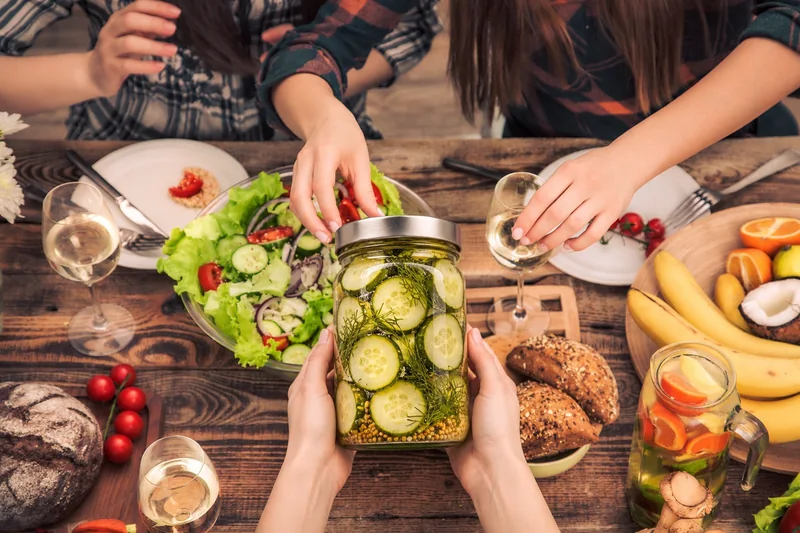
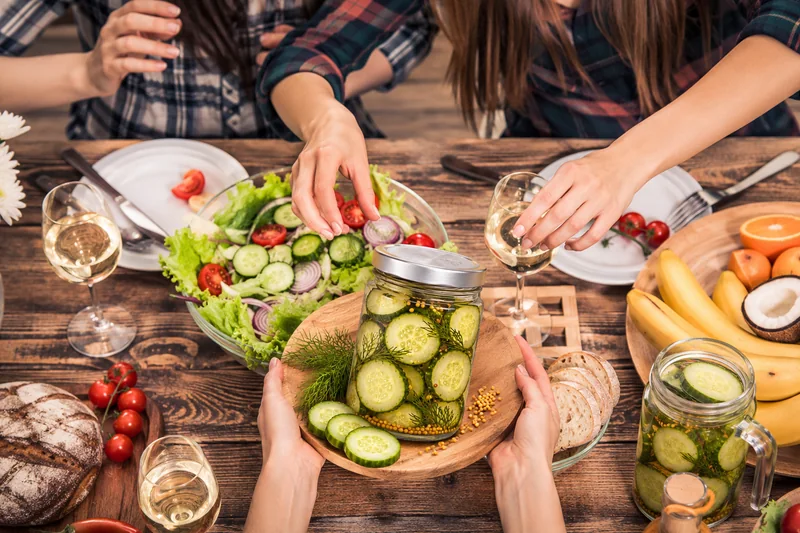
Use DILLORA brand photos everywhere, add deck scroll effect
- Replace all stock photography with supplied DILLORA brand shots
  (no watermarked previews, no Freepik dependency, fetch script removed)
- Scenario deck: cards stack behind, next card peeks, photo zoom, text
  reveal, 01/07 counter with progress bar
- vercel.json SPA rewrites already in place

Claude-Session: https://claude.ai/code/session_01NjC3QDjSEZmovZFgLHoog3

diff --git a/src/data/images.js b/src/data/images.js
@@ -1,70 +1,26 @@
 /*
- * Real photography manifest.
- * - Product: the DILLORA jar photo (public/images/jars, baked per flavor).
- * - Lifestyle / ingredient photos: Freepik free-license stock (attribution
- *   required, see footer credit + docs/IMAGE_CREDITS.md).
- *
- * Stock photos load ONLY from licensed, unwatermarked originals in
- * /public/images/licensed/<key>.jpg. Watermarked previews are never used:
- * until a licensed file is present, <Photo> shows the DILLORA jar instead.
+ * Photography manifest — every photo is a DILLORA brand shot supplied by the client.
+ * - Product cutout: public/images/jars (one per flavor, brine tone baked in).
+ * - Lifestyle / still-life: public/images/scenes/<key>.webp (+ -sm.webp, 800px).
  */
+
 /** Public-folder path that works at any base URL (site root or a sub-path). */
-export const asset = (p) => `${import.meta.env?.BASE_URL ?? "/"}${p.replace(/^\//, '')}`;
+export const asset = (p) => `${import.meta.env?.BASE_URL ?? '/'}${p.replace(/^\//, '')}`;
+
+const shot = (key) => ({
+  local: asset(`/images/scenes/${key}.webp`),
+  small: asset(`/images/scenes/${key}-sm.webp`),
+  remote: null,
+});
 
 export const STOCK = {
-  board: {
-    local: asset('/images/licensed/board.jpg'),
-    remote: null, // licensed original (Freepik ID 5429976); previews are watermarked, never used
-    id: 5429976,
-  },
-  // DILLORA brand shot (supplied)
-  burger: {
-    local: asset('/images/scenes/burger.webp'),
-    small: asset('/images/scenes/burger-sm.webp'),
-    remote: null,
-  },
-  // DILLORA brand shot (supplied)
-  picnic: {
-    local: asset('/images/scenes/picnic.webp'),
-    small: asset('/images/scenes/picnic-sm.webp'),
-    remote: null,
-  },
-  fridge: {
-    local: asset('/images/licensed/fridge.jpg'),
-    remote: null, // licensed original (Freepik ID 15365830); previews are watermarked, never used
-    id: 15365830,
-  },
-  tacos: {
-    local: asset('/images/licensed/tacos.jpg'),
-    remote: null, // licensed original (Freepik ID 10685667); previews are watermarked, never used
-    id: 10685667,
-  },
-  // DILLORA brand shot (supplied) — shipped with the project, no download needed
-  brunch: {
-    local: asset('/images/scenes/brunch.webp'),
-    small: asset('/images/scenes/brunch-sm.webp'),
-    remote: null,
-  },
-  slices: {
-    local: asset('/images/licensed/slices.jpg'),
-    remote: null, // licensed original (Freepik ID 7167908); previews are watermarked, never used
-    id: 7167908,
-  },
-  ingredients: {
-    local: asset('/images/licensed/ingredients.jpg'),
-    remote: null, // licensed original (Freepik ID 10685669); previews are watermarked, never used
-    id: 10685669,
-  },
-  jarBoard: {
-    local: asset('/images/licensed/jarBoard.jpg'),
-    remote: null, // licensed original (Freepik ID 10685680); previews are watermarked, never used
-    id: 10685680,
-  },
-  jarHand: {
-    local: asset('/images/licensed/jarHand.jpg'),
-    remote: null, // licensed original (Freepik ID 17186892); previews are watermarked, never used
-    id: 17186892,
-  },
+  board: shot('board'), // screw-lid jar, cucumbers, dill, garlic
+  burger: shot('burger'), // friends eating pickles on a picnic blanket
+  picnic: shot('picnic'), // sunny park picnic with jars
+  fridge: shot('fridge'), // clip jar + plate of slices with a fork
+  tacos: shot('tacos'), // clip jar of whole gherkins with chili
+  brunch: shot('brunch'), // dinner table, jar passed on a board
+  jarBoard: shot('jarboard'), // clip jar of slices, garlic, chili on a board
 };
 
 export const jarImage = (slug, size = '') => asset(`images/jars/${slug}${size ? `-${size}` : ''}.webp`);

diff --git a/src/data/content.js b/src/data/content.js
@@ -53,7 +53,7 @@ export const SCENARIOS = [
     title: 'Snack board o’clock',
     caption: 'When the cheese is out and the board needs something sharp',
     image: STOCK.board,
-    alt: 'A jar of pickles with chili, dill, garlic and spices on a white wooden table',
+    alt: 'A DILLORA jar of sliced cucumber pickles with fresh cucumbers, dill, garlic and mustard seeds',
   },
   {
     id: 'burger',
@@ -74,35 +74,28 @@ export const SCENARIOS = [
     title: 'Midnight fridge raid',
     caption: 'When it’s late, the kitchen’s quiet and the jar is calling',
     image: STOCK.fridge,
-    alt: 'A hand pulling a pickle from an open jar',
+    alt: 'An open DILLORA clip jar of pickles beside a plate of pickle slices and a fork',
   },
   {
     id: 'tacos',
     title: 'Taco Tuesday',
     caption: 'When the salsa needs crunch and a little extra heat',
     image: STOCK.tacos,
-    alt: 'Pickles with chili and garlic in a glass jar',
+    alt: 'A clip jar of whole pickles with chili, garlic and bay leaf',
   },
   {
     id: 'brunch',
     title: 'Slow Sunday brunch',
     caption: 'When the bagels are toasted and nobody’s in a hurry',
     image: STOCK.brunch,
-    alt: 'Friends passing a DILLORA jar of cucumber dill pickles across a rustic dinner table',
+    alt: 'Friends passing a DILLORA jar of cucumber dill pickles on a board across a dinner table',
   },
   {
     id: 'sandwich',
     title: 'Sandwich stacker',
     caption: 'When the deli order needs one last crunchy layer',
     image: STOCK.jarBoard,
-    alt: 'Pickles with garlic and dill in a glass jar on a cutting board',
-  },
-  {
-    id: 'salad',
-    title: 'Fresh salad bowl',
-    caption: 'When the greens need something sharp to wake them up',
-    image: STOCK.slices,
-    alt: 'Fresh cucumber slices with dill on a plate',
+    alt: 'A DILLORA clip jar of sliced pickles with garlic, dill and chili on a cutting board',
   },
 ];
 
@@ -139,10 +132,10 @@ export const ABOUT = {
   aside:
     'We’re about crisp cucumbers, real dill and a brine that’s balanced, not brutal. No shortcuts, no gimmicks — just a jar you’ll actually want to finish.',
   cards: [
-    { image: STOCK.jarBoard, alt: 'Pickles with garlic and dill in a glass jar on a cutting board' },
-    { image: STOCK.slices, alt: 'Fresh cucumber slices with dill on a plate' },
-    { image: STOCK.ingredients, alt: 'Cucumbers, garlic, dill and chili ready for pickling' },
-    { image: STOCK.jarHand, alt: 'A hand holding a jar of pickles' },
+    { image: STOCK.jarBoard, alt: 'A DILLORA clip jar of sliced pickles with garlic, dill and chili on a cutting board' },
+    { image: STOCK.board, alt: 'A DILLORA jar of sliced cucumber pickles with fresh cucumbers and dill' },
+    { image: STOCK.tacos, alt: 'A clip jar of whole pickles with chili, garlic and bay leaf' },
+    { image: STOCK.fridge, alt: 'A DILLORA jar beside a plate of pickle slices' },
   ],
 };
 

diff --git a/src/components/Photo.jsx b/src/components/Photo.jsx
@@ -2,9 +2,8 @@ import { useState } from 'react';
 import { jarImage } from '../data/images.js';
 
 /**
- * Real-photo <img>: serves the local copy from /public/images
- * (`npm run fetch:images`), falls back to the licensed CDN original, and as a
- * last resort shows the real DILLORA jar photo on a brand background.
+ * Photo <img> with a responsive srcset; if a file is ever missing it falls
+ * back to the DILLORA jar on a brand background instead of a broken image.
  */
 export default function Photo({ image, alt, className = '', width = 1800, eager = false, sizes, ...rest }) {
   const [src, setSrc] = useState(image.local);

diff --git a/src/components/Footer.jsx b/src/components/Footer.jsx
@@ -72,9 +72,6 @@ export default function Footer({ reveal = true }) {
           <p className="site-footer-address site-footer-address-mobile">{BRAND.address}</p>
           <span>© {new Date().getFullYear()} DILLORA. All rights reserved.</span>
           <Link to="/privacy" className="site-footer-credit">Privacy Policy</Link>
-          <a className="site-footer-credit" href="https://www.freepik.com" target="_blank" rel="noopener noreferrer">
-            Lifestyle photos: Freepik
-          </a>
         </div>
       </div>
     </footer>

diff --git a/src/pages/PrivacyPage.jsx b/src/pages/PrivacyPage.jsx
@@ -20,10 +20,6 @@ const SECTIONS = [
   },
   { q: 'How we use it', a: ['To understand which pages work, fix problems and improve the site. No ads, and we never sell your data.'] },
   { q: 'Your choices', a: [`You can clear your browser storage at any time to reset your cookie choice, or email ${BRAND.email} to ask about any data we hold.`] },
-  {
-    q: 'Image credits',
-    a: ['Lifestyle and ingredient photography by Freepik (freepik.com), used under the Freepik free license.'],
-  },
 ];
 
 export default function PrivacyPage() {

diff --git a/src/styles/sections.css b/src/styles/sections.css
@@ -130,7 +130,7 @@
 .site-footer-credit { color: inherit; text-decoration: none; }
 .site-footer-credit:hover, .site-footer-credit:focus-visible { text-decoration: underline; }
 @media (min-width: 1200px) {
-  .site-footer-bottom { display: grid; grid-template-columns: 1fr auto auto 1fr; }
+  .site-footer-bottom { display: grid; grid-template-columns: 1fr auto 1fr; }
   .site-footer-bottom > :last-child { justify-self: end; }
   .site-footer-bottom > .site-footer-address-mobile { display: none; }
 }

diff --git a/docs/IMAGE_CREDITS.md b/docs/IMAGE_CREDITS.md
@@ -1,25 +1,16 @@
 # Image credits
 
-## Product
-- `public/images/jars/*`: the DILLORA jar photo you supplied (`public/images/product/dillora-jar-reference.webp`). The four flavor variants change only the brine tone; the lid is not touched.
+Every image on the site is a DILLORA brand asset supplied by the client. No stock photography is used.
 
-- `public/images/scenes/brunch.webp`: DILLORA brand shot you supplied (friends passing the jar at a dinner table), used for the “Slow Sunday brunch” card.
-- `public/images/scenes/burger.webp`: DILLORA brand shot you supplied (friends eating pickles on a picnic blanket), used for the “Straight from the jar” card.
-- `public/images/scenes/picnic.webp`: DILLORA brand shot you supplied (sunny park picnic with jars), used for the “Picnic in the park” card.
+| File (`public/images/…`) | Used for |
+|---|---|
+| `jars/*` (from `product/dillora-jar-reference.webp`) | Hero, flavor slider, detail, contact, flavor pages (brine tone per flavor; lid untouched) |
+| `scenes/picnic.webp` | Card: Picnic in the park (first full-bleed card) |
+| `scenes/burger.webp` | Card: Straight from the jar |
+| `scenes/brunch.webp` | Card: Slow Sunday brunch |
+| `scenes/board.webp` | Card: Snack board o'clock · About deck |
+| `scenes/fridge.webp` | Card: Midnight fridge raid · About deck |
+| `scenes/tacos.webp` | Card: Taco Tuesday · About deck |
+| `scenes/jarboard.webp` | Card: Sandwich stacker · About deck |
 
-## Lifestyle and ingredient photography: Freepik (free license, attribution required)
-The attribution is shown in the footer ("Lifestyle photos: Freepik") and on the Privacy page. Keep it, or switch these photos to premium licenses.
-
-| Use | Freepik ID | Title |
-|---|---|---|
-| Scenario: Snack board | 5429976 | Fresh organic cucumber pickles jar on white wooden table |
-| Scenario: Midnight fridge raid | 15365830 | Female hand taking pickle from jar |
-| Scenario: Taco Tuesday | 10685667 | Homemade pickled cucumbers with chili |
-| About deck 1 | 10685680 | Pickles with garlic in glass jar on cutting board |
-| About deck 2 | 7167908 | Cucumber sliced on plate with dill |
-| About deck 3 | 10685669 | Ingredients for pickled cucumbers |
-| About deck 4 | 17186892 | Female hand holding pickle jar |
-
-Files live in `public/images/licensed/` (licensed originals, no watermark). The site never loads Magnific/Freepik preview images, which carry a watermark.
-
-These are real photographs; AI-generated images were excluded in the search. When you have your own brand shoot, replace the files in `public/images/scenes` and `public/images/about`, keeping the same filenames.
+Each scene has an 800px `-sm.webp` version served to small screens.

diff --git a/README.md b/README.md
@@ -7,12 +7,11 @@ A section-by-section recreation of the yaas-energy.com experience, rebranded as 
 ## Run it
 ```bash
 npm install
-npm run fetch:images   # downloads the licensed (unwatermarked) stock photos into /public/images/licensed
 npm run dev            # http://localhost:5173
 npm run build          # production build in /dist
 npm run preview
 ```
-If you skip `fetch:images`, the site still works: those photo slots show the DILLORA jar. Watermarked preview images are never used.
+All photos are DILLORA brand shots stored in `public/images/scenes/` — nothing to download.
 
 ## Where to change things
 | What | File |
